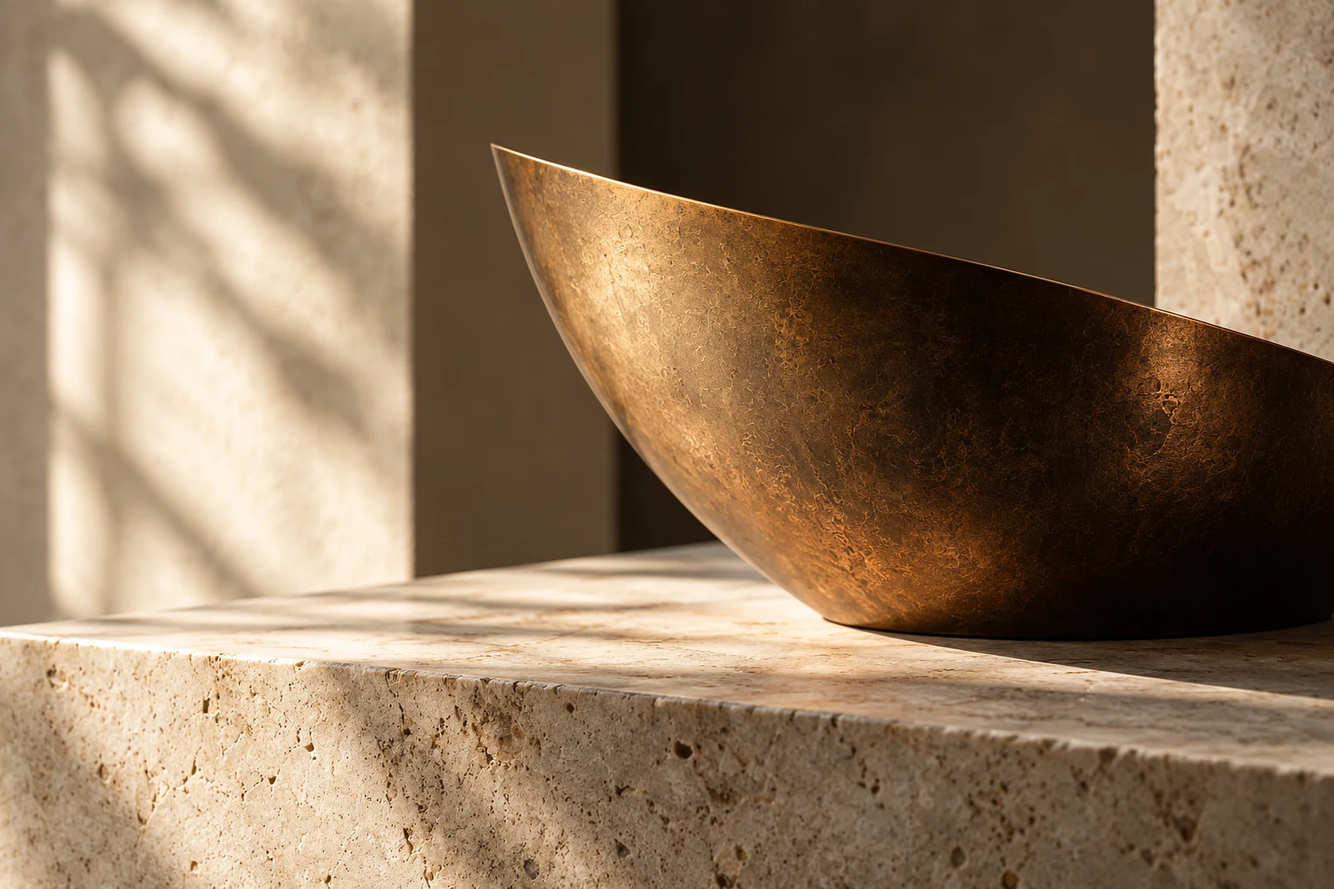
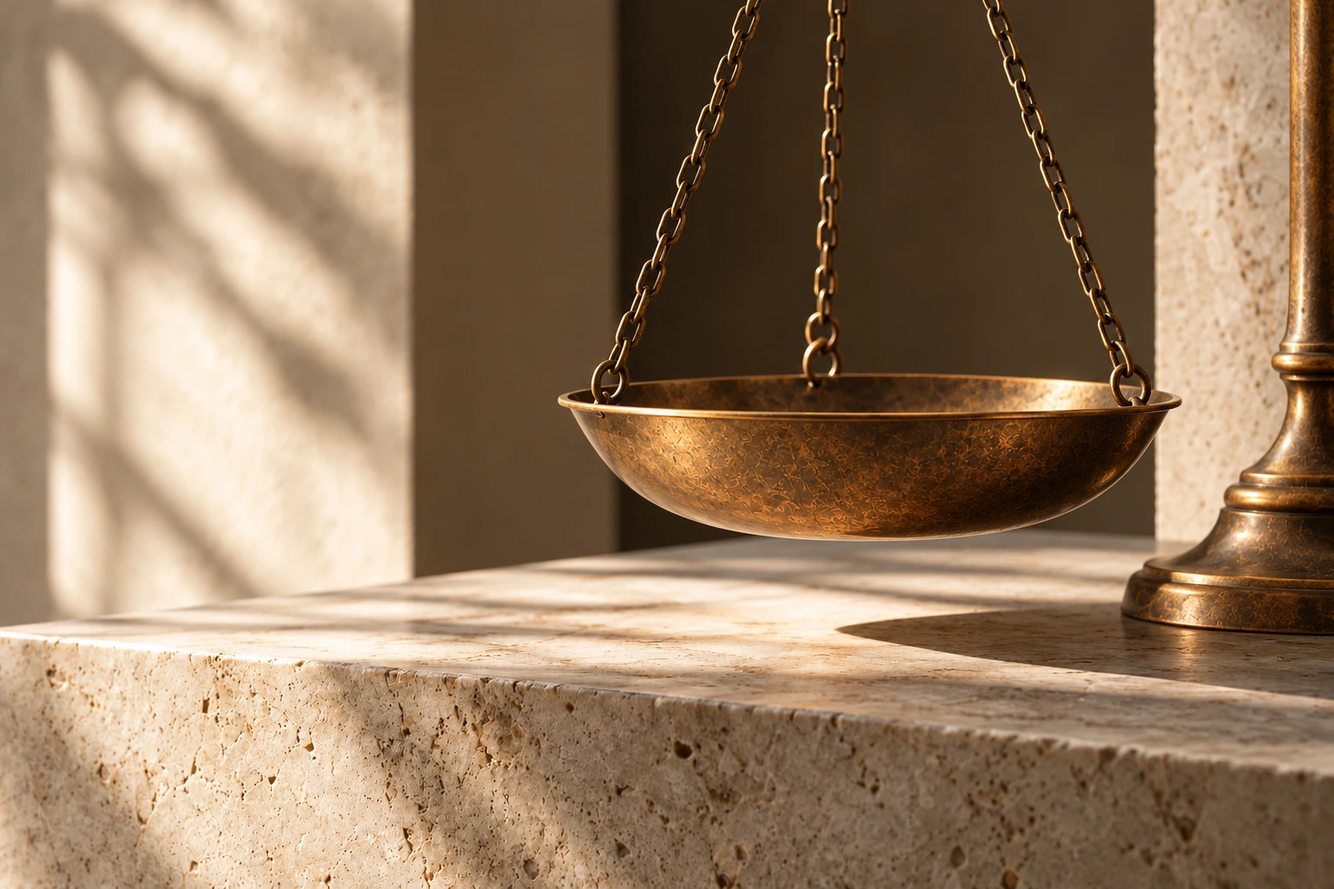
Replace bronze bowl with scales of justice detail

diff --git a/site/tomeis.html b/site/tomeis.html
@@ -1,2 +1,2 @@
 <!doctype html>
-<html lang="el"><head><meta charset="utf-8"><meta name="viewport" content="width=device-width,initial-scale=1"><meta name="robots" content="noindex,nofollow"><meta name="description" content="Ποινικό, αστικό, οικογενειακό δίκαιο, συμβάσεις, δίκαιο αλλοδαπών και διαμεσολάβηση."><title>Τομείς δικαίου | ΒΑΣΙΛΙΚΗ ΜΑΛΛΙΑΡΟΥ</title><link rel="icon" href="favicon.svg" type="image/svg+xml"><link rel="preload" href="assets/gfs-didot.ttf" as="font" type="font/ttf" crossorigin><link rel="preload" href="assets/noto-sans.ttf" as="font" type="font/ttf" crossorigin><link rel="stylesheet" href="styles.css"><script src="site.js" defer></script></head><body><a class="skip" href="#main">Μετάβαση στο περιεχόμενο</a><header class="site-header"><div class="wrap header-inner"><a class="brand reveal" href="index.html" aria-label="ΒΑΣΙΛΙΚΗ ΜΑΛΛΙΑΡΟΥ — Αρχική"><span class="monogram" aria-hidden="true"><span>Β</span><span>Μ</span></span><span class="brand-name">ΒΑΣΙΛΙΚΗ ΜΑΛΛΙΑΡΟΥ</span></a><button class="menu-toggle" type="button" aria-controls="navigation" aria-expanded="false">Μενού</button><nav class="primary-nav reveal" id="navigation" aria-label="Κύρια πλοήγηση" style="--delay:60ms"><a href="grafeio.html">Το γραφείο</a><a href="tomeis.html" aria-current="page">Τομείς δικαίου</a><a href="diamesolavisi.html">Διαμεσολάβηση</a><a href="epikoinonia.html">Επικοινωνία</a></nav></div></header><main id="main"><div class="wrap"><section class="page-hero"><h1 class="reveal">Τομείς δικαίου</h1><p class="lead reveal">Μια πρώτη εικόνα των θεμάτων, πριν συζητηθούν οι λεπτομέρειες της υπόθεσής σας.</p></section><p class="practice-intro reveal">Οι παρακάτω περιγραφές εξηγούν γενικές κατηγορίες νομικών θεμάτων. Δεν προδικάζουν τον χειρισμό, τη διάρκεια ή την έκβαση μιας συγκεκριμένης υπόθεσης.</p><div class="practice-list"><section class="practice-item" id="poiniko"><h2 class="reveal">Ποινικό Δίκαιο</h2><div class="reveal"><p>Αφορά ζητήματα που συνδέονται με ποινικές υποθέσεις και τις σχετικές διαδικασίες. Για μια πρώτη συζήτηση είναι χρήσιμη μια σύντομη αναφορά στο γεγονός, στο στάδιο στο οποίο βρίσκεται το θέμα και στις ημερομηνίες που γνωρίζετε.</p><a class="text-link" href="epikoinonia.html?thema=poiniko">Επικοινωνία για ποινικό θέμα</a></div></section><section class="practice-item" id="astiko"><h2 class="reveal">Αστικό Δίκαιο</h2><div class="reveal"><p>Αφορά ιδιωτικές σχέσεις, δικαιώματα, υποχρεώσεις και διαφορές. Μια σαφής περιγραφή των εμπλεκομένων και του ζητήματος βοηθά να προσδιοριστεί τι χρειάζεται να εξεταστεί.</p><a class="text-link" href="epikoinonia.html?thema=astiko">Επικοινωνία για αστικό θέμα</a></div></section><section class="practice-item" id="oikogeneiako"><h2 class="reveal">Οικογενειακό Δίκαιο</h2><div class="reveal"><p>Περιλαμβάνει νομικά ζητήματα που προκύπτουν στις οικογενειακές σχέσεις. Κάθε περίπτωση έχει διαφορετικά πραγματικά δεδομένα, γι’ αυτό η αρχική περιγραφή μπορεί να μείνει σύντομη και εστιασμένη στο ερώτημά σας.</p><a class="text-link" href="epikoinonia.html?thema=oikogeneiako">Επικοινωνία για οικογενειακό θέμα</a></div></section><section class="practice-item" id="symvaseis"><h2 class="reveal">Δίκαιο Συμβάσεων</h2><div class="reveal"><p>Αφορά συμφωνίες, συμβατικούς όρους και τις υποχρεώσεις που απορρέουν από αυτούς. Αναφέρετε το είδος της συμφωνίας και το σημείο για το οποίο ζητάτε διευκρίνιση, χωρίς να χρειάζεται να καταχωρίσετε ολόκληρο το έγγραφο στην αρχική επικοινωνία.</p><a class="text-link" href="epikoinonia.html?thema=symvaseis">Επικοινωνία για σύμβαση</a></div></section><section class="practice-item" id="allodapon"><h2 class="reveal">Δίκαιο Αλλοδαπών</h2><div class="reveal"><p>Συνδέεται με ζητήματα διαμονής και τις αντίστοιχες διοικητικές διαδικασίες. Μπορείτε να αναφέρετε συνοπτικά ποιο είναι το αίτημα, αν βρίσκεται ήδη σε εξέλιξη κάποια διαδικασία και αν σας έχει γνωστοποιηθεί συγκεκριμένη ημερομηνία.</p><a class="text-link" href="epikoinonia.html?thema=allodapon">Επικοινωνία για θέμα αλλοδαπών</a></div></section><section class="practice-item" id="diamesolavisi"><h2 class="reveal">Διαμεσολάβηση</h2><div class="reveal"><p>Μια οργανωμένη διαδικασία συζήτησης για την αναζήτηση κοινά αποδεκτής λύσης σε μια διαφορά, με τη συνδρομή ουδέτερου διαμεσολαβητή.</p><a class="text-link" href="epikoinonia.html?thema=diamesolavisi">Επικοινωνία για διαμεσολάβηση</a><p><a class="text-link" href="diamesolavisi.html">Περισσότερα για τη διαμεσολάβηση</a></p></div></section></div></div><section class="tone"><div class="wrap faq-layout"><div class="reveal"><h2>Πριν το επόμενο βήμα</h2><p>Μερικές πρακτικές διευκρινίσεις για την πρώτη επικοινωνία.</p><a class="button" href="epikoinonia.html">Επικοινωνία</a></div><div class="faq-list"><details><summary>Δεν γνωρίζω σε ποιον τομέα ανήκει το θέμα μου.</summary><p>Επιλέξτε «Άλλο θέμα / Δεν είμαι βέβαιος» στη σελίδα επικοινωνίας και περιγράψτε το ερώτημά σας με δικά σας λόγια.</p></details><details><summary>Χρειάζεται να συμπεριλάβω έγγραφα;</summary><p>Η φόρμα του δείγματος δεν δέχεται αρχεία. Για πραγματική επικοινωνία, χρησιμοποιήστε τα στοιχεία του γραφείου και συζητήστε ποια έγγραφα χρειάζονται και πώς θα δοθούν.</p></details><details><summary>Η επικοινωνία σημαίνει ανάληψη της υπόθεσης;</summary><p>Η πρώτη επικοινωνία δεν αποτελεί συμφωνία ανάθεσης. Το αντικείμενο, οι όροι συνεργασίας και η αμοιβή συζητούνται χωριστά.</p></details></div></div></section><div class="wrap section"><figure class="wide-image reveal"><img src="assets/bronze-stone.webp" alt="" width="1600" height="1067" loading="lazy" decoding="async" style=""></figure></div></main><footer class="site-footer"><div class="wrap"><div class="footer-main"><div><h2>Επικοινωνία</h2><p class="footer-brand">ΒΑΣΙΛΙΚΗ ΜΑΛΛΙΑΡΟΥ</p><p>Δικηγόρος · Διαπιστευμένη Διαμεσολαβήτρια</p></div><div><p>Μέρλιν 11, Κολωνάκι, 10671 Αθήνα</p><p><a href="tel:+306943598746">694 359 8746</a> &nbsp; <a href="tel:+302103603919">210 360 3919</a></p><a class="button" href="epikoinonia.html">Επικοινωνία</a></div></div><nav class="footer-links" aria-label="Πλοήγηση υποσέλιδου"><a href="grafeio.html">Το γραφείο</a><a href="tomeis.html" aria-current="page">Τομείς δικαίου</a><a href="diamesolavisi.html">Διαμεσολάβηση</a><a href="epikoinonia.html">Επικοινωνία</a></nav><div class="footer-notes"><p>Επίδειξη σχεδιασμού ιστοσελίδας. Οι εικόνες και το μονόγραμμα αποτελούν οπτική πρόταση.</p><p>Το περιεχόμενο είναι γενικό και δεν αποτελεί εξατομικευμένη νομική συμβουλή.</p></div></div></footer></body></html>
+<html lang="el"><head><meta charset="utf-8"><meta name="viewport" content="width=device-width,initial-scale=1"><meta name="robots" content="noindex,nofollow"><meta name="description" content="Ποινικό, αστικό, οικογενειακό δίκαιο, συμβάσεις, δίκαιο αλλοδαπών και διαμεσολάβηση."><title>Τομείς δικαίου | ΒΑΣΙΛΙΚΗ ΜΑΛΛΙΑΡΟΥ</title><link rel="icon" href="favicon.svg" type="image/svg+xml"><link rel="preload" href="assets/gfs-didot.ttf" as="font" type="font/ttf" crossorigin><link rel="preload" href="assets/noto-sans.ttf" as="font" type="font/ttf" crossorigin><link rel="stylesheet" href="styles.css"><script src="site.js" defer></script></head><body><a class="skip" href="#main">Μετάβαση στο περιεχόμενο</a><header class="site-header"><div class="wrap header-inner"><a class="brand reveal" href="index.html" aria-label="ΒΑΣΙΛΙΚΗ ΜΑΛΛΙΑΡΟΥ — Αρχική"><span class="monogram" aria-hidden="true"><span>Β</span><span>Μ</span></span><span class="brand-name">ΒΑΣΙΛΙΚΗ ΜΑΛΛΙΑΡΟΥ</span></a><button class="menu-toggle" type="button" aria-controls="navigation" aria-expanded="false">Μενού</button><nav class="primary-nav reveal" id="navigation" aria-label="Κύρια πλοήγηση" style="--delay:60ms"><a href="grafeio.html">Το γραφείο</a><a href="tomeis.html" aria-current="page">Τομείς δικαίου</a><a href="diamesolavisi.html">Διαμεσολάβηση</a><a href="epikoinonia.html">Επικοινωνία</a></nav></div></header><main id="main"><div class="wrap"><section class="page-hero"><h1 class="reveal">Τομείς δικαίου</h1><p class="lead reveal">Μια πρώτη εικόνα των θεμάτων, πριν συζητηθούν οι λεπτομέρειες της υπόθεσής σας.</p></section><p class="practice-intro reveal">Οι παρακάτω περιγραφές εξηγούν γενικές κατηγορίες νομικών θεμάτων. Δεν προδικάζουν τον χειρισμό, τη διάρκεια ή την έκβαση μιας συγκεκριμένης υπόθεσης.</p><div class="practice-list"><section class="practice-item" id="poiniko"><h2 class="reveal">Ποινικό Δίκαιο</h2><div class="reveal"><p>Αφορά ζητήματα που συνδέονται με ποινικές υποθέσεις και τις σχετικές διαδικασίες. Για μια πρώτη συζήτηση είναι χρήσιμη μια σύντομη αναφορά στο γεγονός, στο στάδιο στο οποίο βρίσκεται το θέμα και στις ημερομηνίες που γνωρίζετε.</p><a class="text-link" href="epikoinonia.html?thema=poiniko">Επικοινωνία για ποινικό θέμα</a></div></section><section class="practice-item" id="astiko"><h2 class="reveal">Αστικό Δίκαιο</h2><div class="reveal"><p>Αφορά ιδιωτικές σχέσεις, δικαιώματα, υποχρεώσεις και διαφορές. Μια σαφής περιγραφή των εμπλεκομένων και του ζητήματος βοηθά να προσδιοριστεί τι χρειάζεται να εξεταστεί.</p><a class="text-link" href="epikoinonia.html?thema=astiko">Επικοινωνία για αστικό θέμα</a></div></section><section class="practice-item" id="oikogeneiako"><h2 class="reveal">Οικογενειακό Δίκαιο</h2><div class="reveal"><p>Περιλαμβάνει νομικά ζητήματα που προκύπτουν στις οικογενειακές σχέσεις. Κάθε περίπτωση έχει διαφορετικά πραγματικά δεδομένα, γι’ αυτό η αρχική περιγραφή μπορεί να μείνει σύντομη και εστιασμένη στο ερώτημά σας.</p><a class="text-link" href="epikoinonia.html?thema=oikogeneiako">Επικοινωνία για οικογενειακό θέμα</a></div></section><section class="practice-item" id="symvaseis"><h2 class="reveal">Δίκαιο Συμβάσεων</h2><div class="reveal"><p>Αφορά συμφωνίες, συμβατικούς όρους και τις υποχρεώσεις που απορρέουν από αυτούς. Αναφέρετε το είδος της συμφωνίας και το σημείο για το οποίο ζητάτε διευκρίνιση, χωρίς να χρειάζεται να καταχωρίσετε ολόκληρο το έγγραφο στην αρχική επικοινωνία.</p><a class="text-link" href="epikoinonia.html?thema=symvaseis">Επικοινωνία για σύμβαση</a></div></section><section class="practice-item" id="allodapon"><h2 class="reveal">Δίκαιο Αλλοδαπών</h2><div class="reveal"><p>Συνδέεται με ζητήματα διαμονής και τις αντίστοιχες διοικητικές διαδικασίες. Μπορείτε να αναφέρετε συνοπτικά ποιο είναι το αίτημα, αν βρίσκεται ήδη σε εξέλιξη κάποια διαδικασία και αν σας έχει γνωστοποιηθεί συγκεκριμένη ημερομηνία.</p><a class="text-link" href="epikoinonia.html?thema=allodapon">Επικοινωνία για θέμα αλλοδαπών</a></div></section><section class="practice-item" id="diamesolavisi"><h2 class="reveal">Διαμεσολάβηση</h2><div class="reveal"><p>Μια οργανωμένη διαδικασία συζήτησης για την αναζήτηση κοινά αποδεκτής λύσης σε μια διαφορά, με τη συνδρομή ουδέτερου διαμεσολαβητή.</p><a class="text-link" href="epikoinonia.html?thema=diamesolavisi">Επικοινωνία για διαμεσολάβηση</a><p><a class="text-link" href="diamesolavisi.html">Περισσότερα για τη διαμεσολάβηση</a></p></div></section></div></div><section class="tone"><div class="wrap faq-layout"><div class="reveal"><h2>Πριν το επόμενο βήμα</h2><p>Μερικές πρακτικές διευκρινίσεις για την πρώτη επικοινωνία.</p><a class="button" href="epikoinonia.html">Επικοινωνία</a></div><div class="faq-list"><details><summary>Δεν γνωρίζω σε ποιον τομέα ανήκει το θέμα μου.</summary><p>Επιλέξτε «Άλλο θέμα / Δεν είμαι βέβαιος» στη σελίδα επικοινωνίας και περιγράψτε το ερώτημά σας με δικά σας λόγια.</p></details><details><summary>Χρειάζεται να συμπεριλάβω έγγραφα;</summary><p>Η φόρμα του δείγματος δεν δέχεται αρχεία. Για πραγματική επικοινωνία, χρησιμοποιήστε τα στοιχεία του γραφείου και συζητήστε ποια έγγραφα χρειάζονται και πώς θα δοθούν.</p></details><details><summary>Η επικοινωνία σημαίνει ανάληψη της υπόθεσης;</summary><p>Η πρώτη επικοινωνία δεν αποτελεί συμφωνία ανάθεσης. Το αντικείμενο, οι όροι συνεργασίας και η αμοιβή συζητούνται χωριστά.</p></details></div></div></section><div class="wrap section"><figure class="wide-image reveal"><img src="assets/bronze-stone.webp?v=scales-1" alt="" width="1600" height="1067" loading="lazy" decoding="async" style=""></figure></div></main><footer class="site-footer"><div class="wrap"><div class="footer-main"><div><h2>Επικοινωνία</h2><p class="footer-brand">ΒΑΣΙΛΙΚΗ ΜΑΛΛΙΑΡΟΥ</p><p>Δικηγόρος · Διαπιστευμένη Διαμεσολαβήτρια</p></div><div><p>Μέρλιν 11, Κολωνάκι, 10671 Αθήνα</p><p><a href="tel:+306943598746">694 359 8746</a> &nbsp; <a href="tel:+302103603919">210 360 3919</a></p><a class="button" href="epikoinonia.html">Επικοινωνία</a></div></div><nav class="footer-links" aria-label="Πλοήγηση υποσέλιδου"><a href="grafeio.html">Το γραφείο</a><a href="tomeis.html" aria-current="page">Τομείς δικαίου</a><a href="diamesolavisi.html">Διαμεσολάβηση</a><a href="epikoinonia.html">Επικοινωνία</a></nav><div class="footer-notes"><p>Επίδειξη σχεδιασμού ιστοσελίδας. Οι εικόνες και το μονόγραμμα αποτελούν οπτική πρόταση.</p><p>Το περιεχόμενο είναι γενικό και δεν αποτελεί εξατομικευμένη νομική συμβουλή.</p></div></div></footer></body></html>

diff --git a/site/index.html b/site/index.html
@@ -1,2 +1,2 @@
 <!doctype html>
-<html lang="el"><head><meta charset="utf-8"><meta name="viewport" content="width=device-width,initial-scale=1"><meta name="robots" content="noindex,nofollow"><meta name="description" content="Δικηγορία και διαπιστευμένη διαμεσολάβηση στο Κολωνάκι. Το γραφείο, οι τομείς δικαίου και η επικοινωνία."><title>ΒΑΣΙΛΙΚΗ ΜΑΛΛΙΑΡΟΥ | Δικηγόρος στο Κολωνάκι</title><link rel="icon" href="favicon.svg" type="image/svg+xml"><link rel="preload" href="assets/gfs-didot.ttf" as="font" type="font/ttf" crossorigin><link rel="preload" href="assets/noto-sans.ttf" as="font" type="font/ttf" crossorigin><link rel="stylesheet" href="styles.css"><script src="site.js" defer></script></head><body><a class="skip" href="#main">Μετάβαση στο περιεχόμενο</a><header class="site-header"><div class="wrap header-inner"><a class="brand reveal" href="index.html" aria-label="ΒΑΣΙΛΙΚΗ ΜΑΛΛΙΑΡΟΥ — Αρχική"><span class="monogram" aria-hidden="true"><span>Β</span><span>Μ</span></span><span class="brand-name">ΒΑΣΙΛΙΚΗ ΜΑΛΛΙΑΡΟΥ</span></a><button class="menu-toggle" type="button" aria-controls="navigation" aria-expanded="false">Μενού</button><nav class="primary-nav reveal" id="navigation" aria-label="Κύρια πλοήγηση" style="--delay:60ms"><a href="grafeio.html">Το γραφείο</a><a href="tomeis.html">Τομείς δικαίου</a><a href="diamesolavisi.html">Διαμεσολάβηση</a><a href="epikoinonia.html">Επικοινωνία</a></nav></div></header><main id="main"><div class="wrap"><section class="hero"><h1 class="reveal" style="--delay:120ms">Η υπόθεσή σας<br>στο επίκεντρο.</h1><p class="lead reveal" style="--delay:180ms">Δικηγόρος και διαπιστευμένη διαμεσολαβήτρια στο Κολωνάκι.</p><div class="reveal" style="--delay:240ms"><a class="button" href="epikoinonia.html">Επικοινωνία</a></div></section><div class="hero-diptych"><figure class=" reveal"><img src="assets/paper-pen.webp?v=bm-1" alt="" width="1600" height="1067" loading="eager" fetchpriority="high" decoding="async" style=""></figure><figure class=" reveal"><img src="assets/bronze-stone.webp" alt="" width="1600" height="1067" loading="lazy" decoding="async" style=""></figure></div><section class="section split"><div><h2 class="reveal">Το γραφείο</h2><figure class="office-photo reveal"><img src="assets/light-door.webp" alt="" width="1600" height="1067" loading="lazy" decoding="async" style=""></figure></div><div class="reveal"><p class="statement">Δικηγορία και διαμεσολάβηση στην Αθήνα.</p><p>Το γραφείο ΒΑΣΙΛΙΚΗ ΜΑΛΛΙΑΡΟΥ βρίσκεται στην οδό Μέρλιν 11, στο Κολωνάκι. Η επαγγελματική παρουσία συνδυάζει τη δικηγορία με τη διαπιστευμένη διαμεσολάβηση.</p><p>Γνωρίστε τους τομείς δικαίου, διαβάστε μια σύντομη εισαγωγή στη διαμεσολάβηση και επιλέξτε τον τρόπο επικοινωνίας που σας εξυπηρετεί.</p><a class="text-link" href="grafeio.html">Γνωρίστε το γραφείο</a><p class="location">Μέρλιν 11, Κολωνάκι</p></div></section><section class="section practice-overview" style="padding-top:0"><div class="section-heading reveal"><h2>Τομείς δικαίου</h2><p>Βρείτε το θέμα που βρίσκεται πιο κοντά στο ερώτημά σας. Η επιλογή κατηγορίας βοηθά στην πρώτη περιγραφή· η συγκεκριμένη υπόθεση χρειάζεται δική της αξιολόγηση.</p><a class="text-link" href="tomeis.html">Δείτε τους τομείς αναλυτικά</a></div><div class="practice-links"><a class="reveal" href="tomeis.html#poiniko"><h3>Ποινικό Δίκαιο</h3><p>Ζητήματα που συνδέονται με ποινικές υποθέσεις και διαδικασίες.</p></a><a class="reveal" href="tomeis.html#astiko"><h3>Αστικό Δίκαιο</h3><p>Ιδιωτικές σχέσεις, δικαιώματα και διαφορές.</p></a><a class="reveal" href="tomeis.html#oikogeneiako"><h3>Οικογενειακό Δίκαιο</h3><p>Ζητήματα που προκύπτουν στις οικογενειακές σχέσεις.</p></a><a class="reveal" href="tomeis.html#symvaseis"><h3>Δίκαιο Συμβάσεων</h3><p>Συμφωνίες, όροι και συμβατικές υποχρεώσεις.</p></a><a class="reveal" href="tomeis.html#allodapon"><h3>Δίκαιο Αλλοδαπών</h3><p>Ζητήματα διαμονής και διοικητικών διαδικασιών.</p></a><a class="reveal" href="tomeis.html#diamesolavisi"><h3>Διαμεσολάβηση</h3><p>Μια διαδικασία διαλόγου για την επίλυση διαφορών.</p></a></div></section></div><section class="tone"><div class="wrap split"><div class="reveal"><h2>Δίκαιο και διάλογος</h2><p class="statement">Μια διαδικασία διαλόγου για την επίλυση διαφορών.</p><p>Η διαμεσολάβηση δίνει χώρο στην επικοινωνία των μερών, με τη βοήθεια ενός ουδέτερου τρίτου προσώπου. Στόχος είναι να διερευνηθεί αν μπορεί να βρεθεί κοινά αποδεκτή λύση.</p><a class="text-link" href="diamesolavisi.html">Γνωρίστε τη διαμεσολάβηση</a></div><figure class="feature-photo reveal"><img src="assets/quiet-table.webp" alt="" width="1600" height="1067" loading="lazy" decoding="async" style=""></figure></div></section><section class="section wrap contact-close"><div class="reveal"><h2>Η πρώτη επικοινωνία</h2><p>Μια σύντομη περιγραφή του θέματος και των βασικών ημερομηνιών είναι μια χρήσιμη αρχή. Δεν χρειάζεται να γνωρίζετε τον ακριβή νομικό όρο για να περιγράψετε όσα σας απασχολούν.</p></div><div class="reveal"><p class="lead">Επιλέξτε τον τρόπο επικοινωνίας που σας εξυπηρετεί.</p><a class="button" href="epikoinonia.html">Επικοινωνία</a><div class="contact-inline"><a href="tel:+306943598746">694 359 8746</a><a href="tel:+302103603919">210 360 3919</a></div></div></section></main><footer class="site-footer"><div class="wrap"><div class="footer-main"><div><h2>Επικοινωνία</h2><p class="footer-brand">ΒΑΣΙΛΙΚΗ ΜΑΛΛΙΑΡΟΥ</p><p>Δικηγόρος · Διαπιστευμένη Διαμεσολαβήτρια</p></div><div><p>Μέρλιν 11, Κολωνάκι, 10671 Αθήνα</p><p><a href="tel:+306943598746">694 359 8746</a> &nbsp; <a href="tel:+302103603919">210 360 3919</a></p><a class="button" href="epikoinonia.html">Επικοινωνία</a></div></div><nav class="footer-links" aria-label="Πλοήγηση υποσέλιδου"><a href="grafeio.html">Το γραφείο</a><a href="tomeis.html">Τομείς δικαίου</a><a href="diamesolavisi.html">Διαμεσολάβηση</a><a href="epikoinonia.html">Επικοινωνία</a></nav><div class="footer-notes"><p>Επίδειξη σχεδιασμού ιστοσελίδας. Οι εικόνες και το μονόγραμμα αποτελούν οπτική πρόταση.</p><p>Το περιεχόμενο είναι γενικό και δεν αποτελεί εξατομικευμένη νομική συμβουλή.</p></div></div></footer></body></html>
+<html lang="el"><head><meta charset="utf-8"><meta name="viewport" content="width=device-width,initial-scale=1"><meta name="robots" content="noindex,nofollow"><meta name="description" content="Δικηγορία και διαπιστευμένη διαμεσολάβηση στο Κολωνάκι. Το γραφείο, οι τομείς δικαίου και η επικοινωνία."><title>ΒΑΣΙΛΙΚΗ ΜΑΛΛΙΑΡΟΥ | Δικηγόρος στο Κολωνάκι</title><link rel="icon" href="favicon.svg" type="image/svg+xml"><link rel="preload" href="assets/gfs-didot.ttf" as="font" type="font/ttf" crossorigin><link rel="preload" href="assets/noto-sans.ttf" as="font" type="font/ttf" crossorigin><link rel="stylesheet" href="styles.css"><script src="site.js" defer></script></head><body><a class="skip" href="#main">Μετάβαση στο περιεχόμενο</a><header class="site-header"><div class="wrap header-inner"><a class="brand reveal" href="index.html" aria-label="ΒΑΣΙΛΙΚΗ ΜΑΛΛΙΑΡΟΥ — Αρχική"><span class="monogram" aria-hidden="true"><span>Β</span><span>Μ</span></span><span class="brand-name">ΒΑΣΙΛΙΚΗ ΜΑΛΛΙΑΡΟΥ</span></a><button class="menu-toggle" type="button" aria-controls="navigation" aria-expanded="false">Μενού</button><nav class="primary-nav reveal" id="navigation" aria-label="Κύρια πλοήγηση" style="--delay:60ms"><a href="grafeio.html">Το γραφείο</a><a href="tomeis.html">Τομείς δικαίου</a><a href="diamesolavisi.html">Διαμεσολάβηση</a><a href="epikoinonia.html">Επικοινωνία</a></nav></div></header><main id="main"><div class="wrap"><section class="hero"><h1 class="reveal" style="--delay:120ms">Η υπόθεσή σας<br>στο επίκεντρο.</h1><p class="lead reveal" style="--delay:180ms">Δικηγόρος και διαπιστευμένη διαμεσολαβήτρια στο Κολωνάκι.</p><div class="reveal" style="--delay:240ms"><a class="button" href="epikoinonia.html">Επικοινωνία</a></div></section><div class="hero-diptych"><figure class=" reveal"><img src="assets/paper-pen.webp?v=bm-1" alt="" width="1600" height="1067" loading="eager" fetchpriority="high" decoding="async" style=""></figure><figure class=" reveal"><img src="assets/bronze-stone.webp?v=scales-1" alt="" width="1600" height="1067" loading="lazy" decoding="async" style=""></figure></div><section class="section split"><div><h2 class="reveal">Το γραφείο</h2><figure class="office-photo reveal"><img src="assets/light-door.webp" alt="" width="1600" height="1067" loading="lazy" decoding="async" style=""></figure></div><div class="reveal"><p class="statement">Δικηγορία και διαμεσολάβηση στην Αθήνα.</p><p>Το γραφείο ΒΑΣΙΛΙΚΗ ΜΑΛΛΙΑΡΟΥ βρίσκεται στην οδό Μέρλιν 11, στο Κολωνάκι. Η επαγγελματική παρουσία συνδυάζει τη δικηγορία με τη διαπιστευμένη διαμεσολάβηση.</p><p>Γνωρίστε τους τομείς δικαίου, διαβάστε μια σύντομη εισαγωγή στη διαμεσολάβηση και επιλέξτε τον τρόπο επικοινωνίας που σας εξυπηρετεί.</p><a class="text-link" href="grafeio.html">Γνωρίστε το γραφείο</a><p class="location">Μέρλιν 11, Κολωνάκι</p></div></section><section class="section practice-overview" style="padding-top:0"><div class="section-heading reveal"><h2>Τομείς δικαίου</h2><p>Βρείτε το θέμα που βρίσκεται πιο κοντά στο ερώτημά σας. Η επιλογή κατηγορίας βοηθά στην πρώτη περιγραφή· η συγκεκριμένη υπόθεση χρειάζεται δική της αξιολόγηση.</p><a class="text-link" href="tomeis.html">Δείτε τους τομείς αναλυτικά</a></div><div class="practice-links"><a class="reveal" href="tomeis.html#poiniko"><h3>Ποινικό Δίκαιο</h3><p>Ζητήματα που συνδέονται με ποινικές υποθέσεις και διαδικασίες.</p></a><a class="reveal" href="tomeis.html#astiko"><h3>Αστικό Δίκαιο</h3><p>Ιδιωτικές σχέσεις, δικαιώματα και διαφορές.</p></a><a class="reveal" href="tomeis.html#oikogeneiako"><h3>Οικογενειακό Δίκαιο</h3><p>Ζητήματα που προκύπτουν στις οικογενειακές σχέσεις.</p></a><a class="reveal" href="tomeis.html#symvaseis"><h3>Δίκαιο Συμβάσεων</h3><p>Συμφωνίες, όροι και συμβατικές υποχρεώσεις.</p></a><a class="reveal" href="tomeis.html#allodapon"><h3>Δίκαιο Αλλοδαπών</h3><p>Ζητήματα διαμονής και διοικητικών διαδικασιών.</p></a><a class="reveal" href="tomeis.html#diamesolavisi"><h3>Διαμεσολάβηση</h3><p>Μια διαδικασία διαλόγου για την επίλυση διαφορών.</p></a></div></section></div><section class="tone"><div class="wrap split"><div class="reveal"><h2>Δίκαιο και διάλογος</h2><p class="statement">Μια διαδικασία διαλόγου για την επίλυση διαφορών.</p><p>Η διαμεσολάβηση δίνει χώρο στην επικοινωνία των μερών, με τη βοήθεια ενός ουδέτερου τρίτου προσώπου. Στόχος είναι να διερευνηθεί αν μπορεί να βρεθεί κοινά αποδεκτή λύση.</p><a class="text-link" href="diamesolavisi.html">Γνωρίστε τη διαμεσολάβηση</a></div><figure class="feature-photo reveal"><img src="assets/quiet-table.webp" alt="" width="1600" height="1067" loading="lazy" decoding="async" style=""></figure></div></section><section class="section wrap contact-close"><div class="reveal"><h2>Η πρώτη επικοινωνία</h2><p>Μια σύντομη περιγραφή του θέματος και των βασικών ημερομηνιών είναι μια χρήσιμη αρχή. Δεν χρειάζεται να γνωρίζετε τον ακριβή νομικό όρο για να περιγράψετε όσα σας απασχολούν.</p></div><div class="reveal"><p class="lead">Επιλέξτε τον τρόπο επικοινωνίας που σας εξυπηρετεί.</p><a class="button" href="epikoinonia.html">Επικοινωνία</a><div class="contact-inline"><a href="tel:+306943598746">694 359 8746</a><a href="tel:+302103603919">210 360 3919</a></div></div></section></main><footer class="site-footer"><div class="wrap"><div class="footer-main"><div><h2>Επικοινωνία</h2><p class="footer-brand">ΒΑΣΙΛΙΚΗ ΜΑΛΛΙΑΡΟΥ</p><p>Δικηγόρος · Διαπιστευμένη Διαμεσολαβήτρια</p></div><div><p>Μέρλιν 11, Κολωνάκι, 10671 Αθήνα</p><p><a href="tel:+306943598746">694 359 8746</a> &nbsp; <a href="tel:+302103603919">210 360 3919</a></p><a class="button" href="epikoinonia.html">Επικοινωνία</a></div></div><nav class="footer-links" aria-label="Πλοήγηση υποσέλιδου"><a href="grafeio.html">Το γραφείο</a><a href="tomeis.html">Τομείς δικαίου</a><a href="diamesolavisi.html">Διαμεσολάβηση</a><a href="epikoinonia.html">Επικοινωνία</a></nav><div class="footer-notes"><p>Επίδειξη σχεδιασμού ιστοσελίδας. Οι εικόνες και το μονόγραμμα αποτελούν οπτική πρόταση.</p><p>Το περιεχόμενο είναι γενικό και δεν αποτελεί εξατομικευμένη νομική συμβουλή.</p></div></div></footer></body></html>
